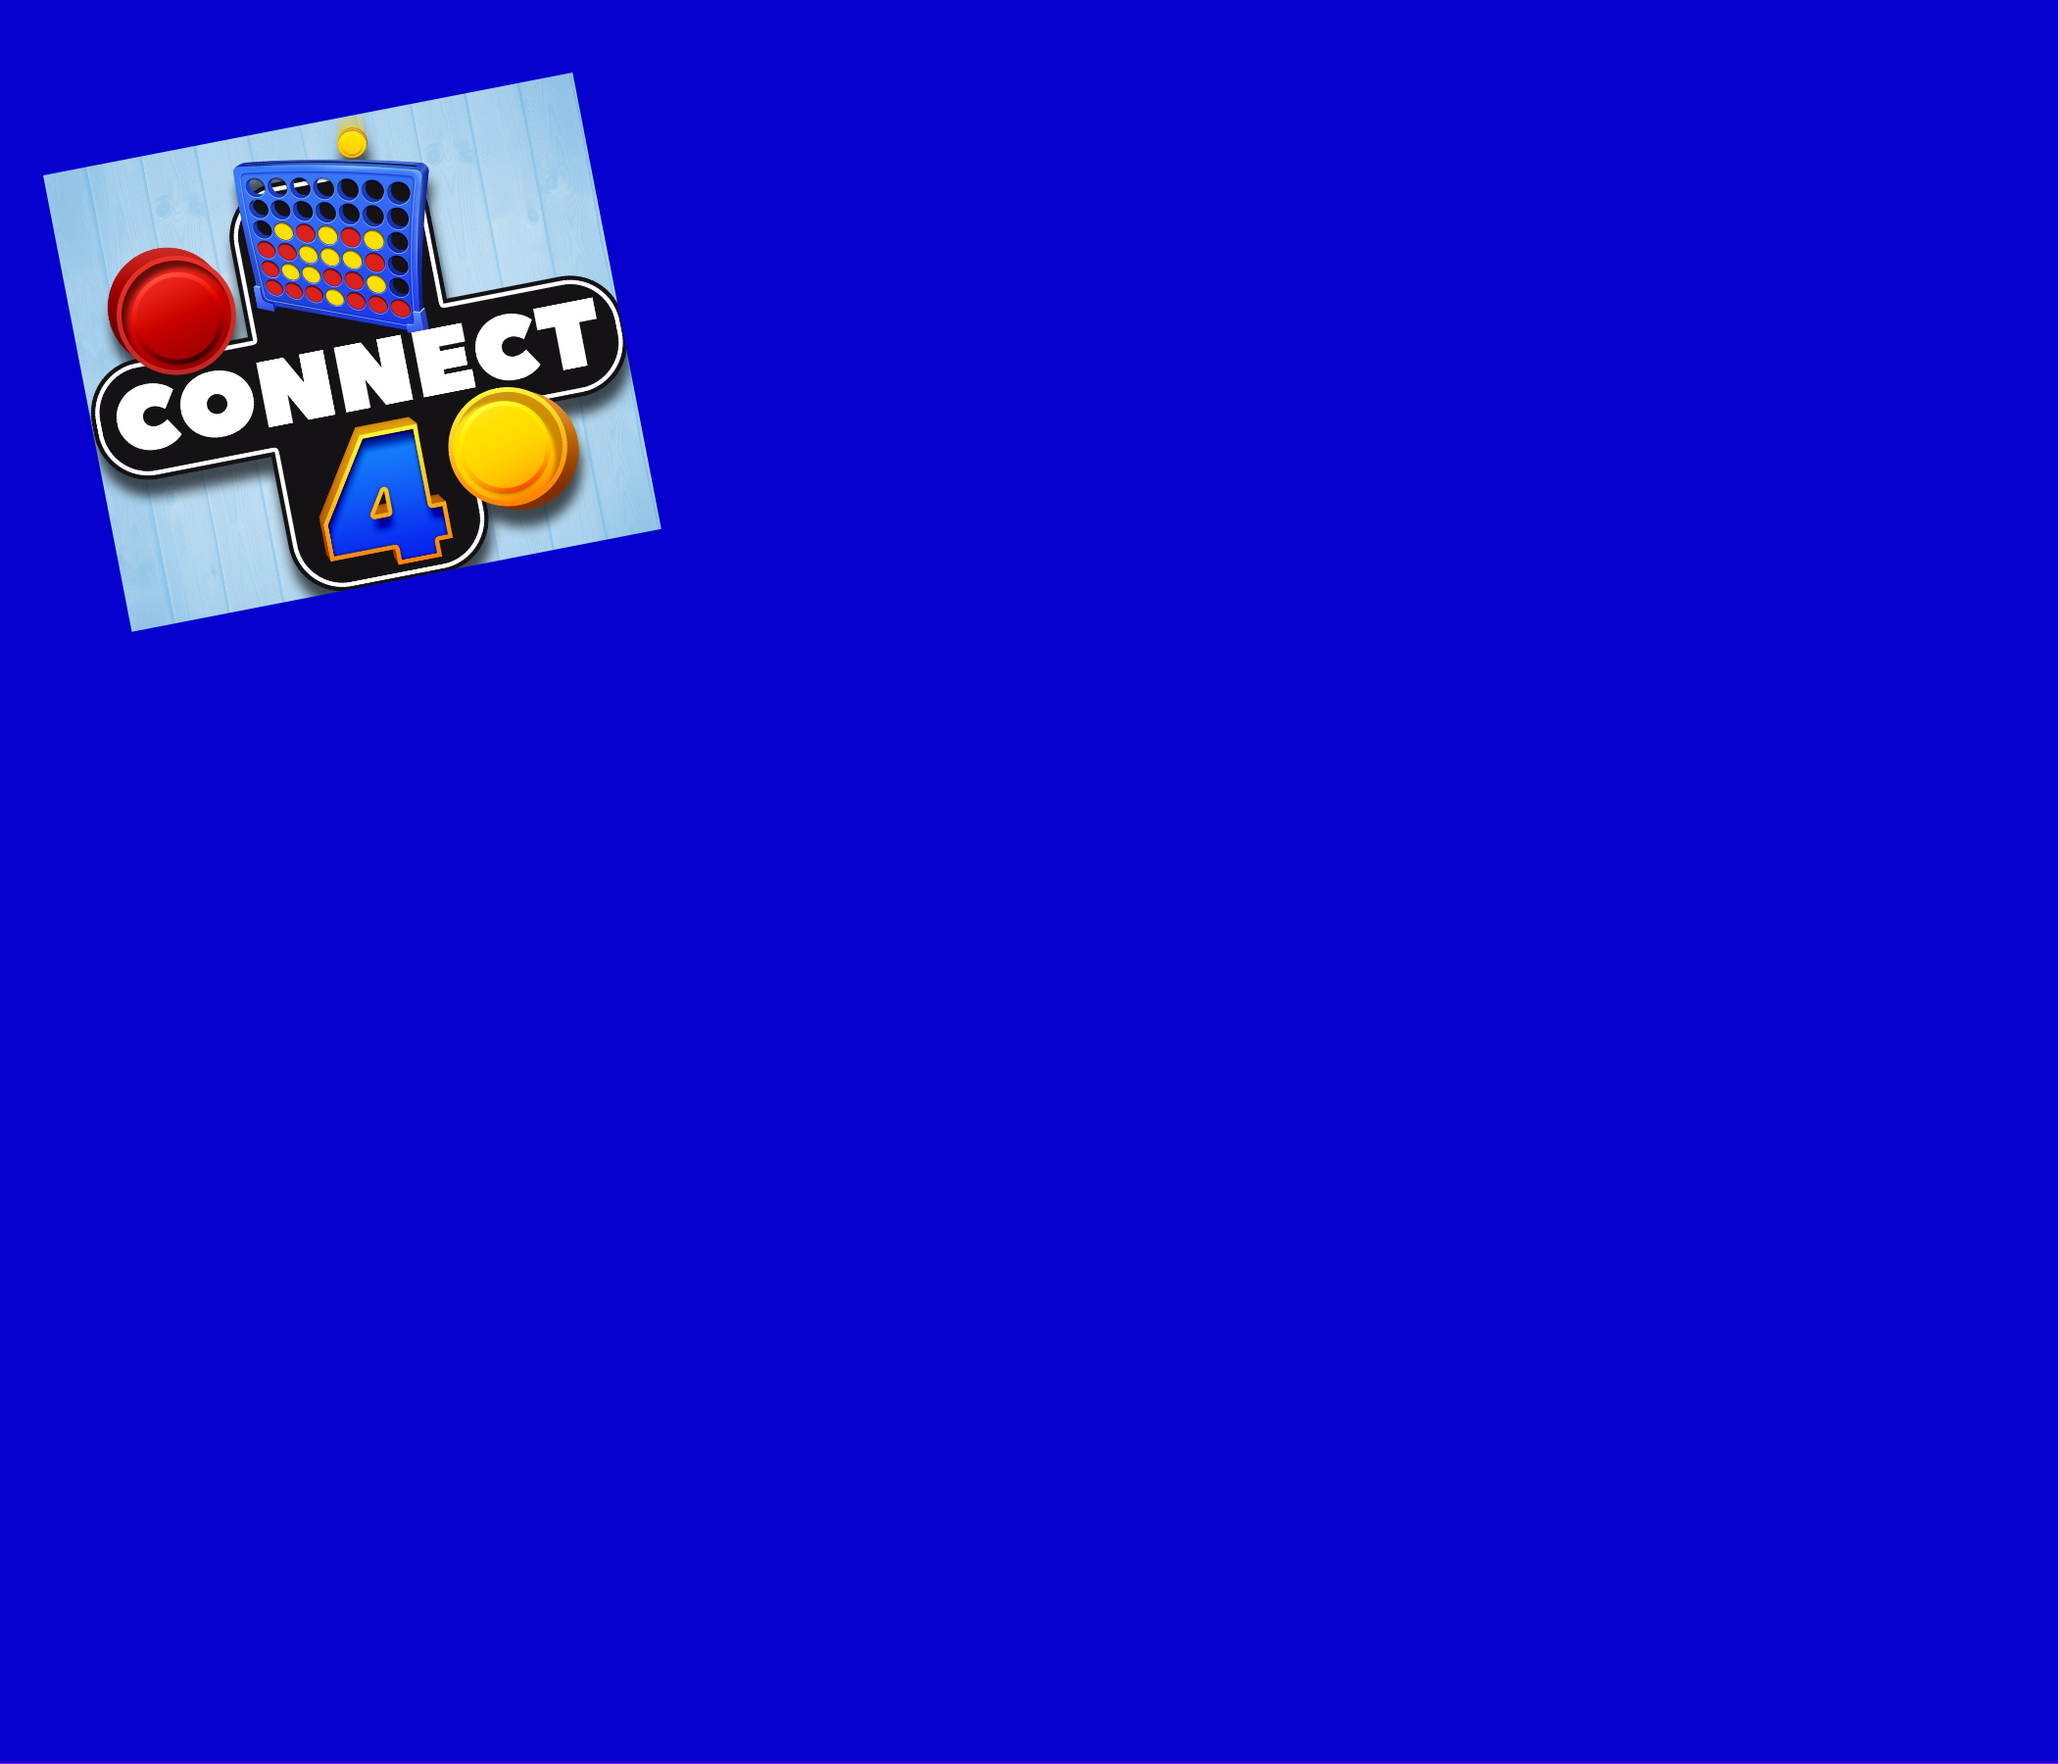
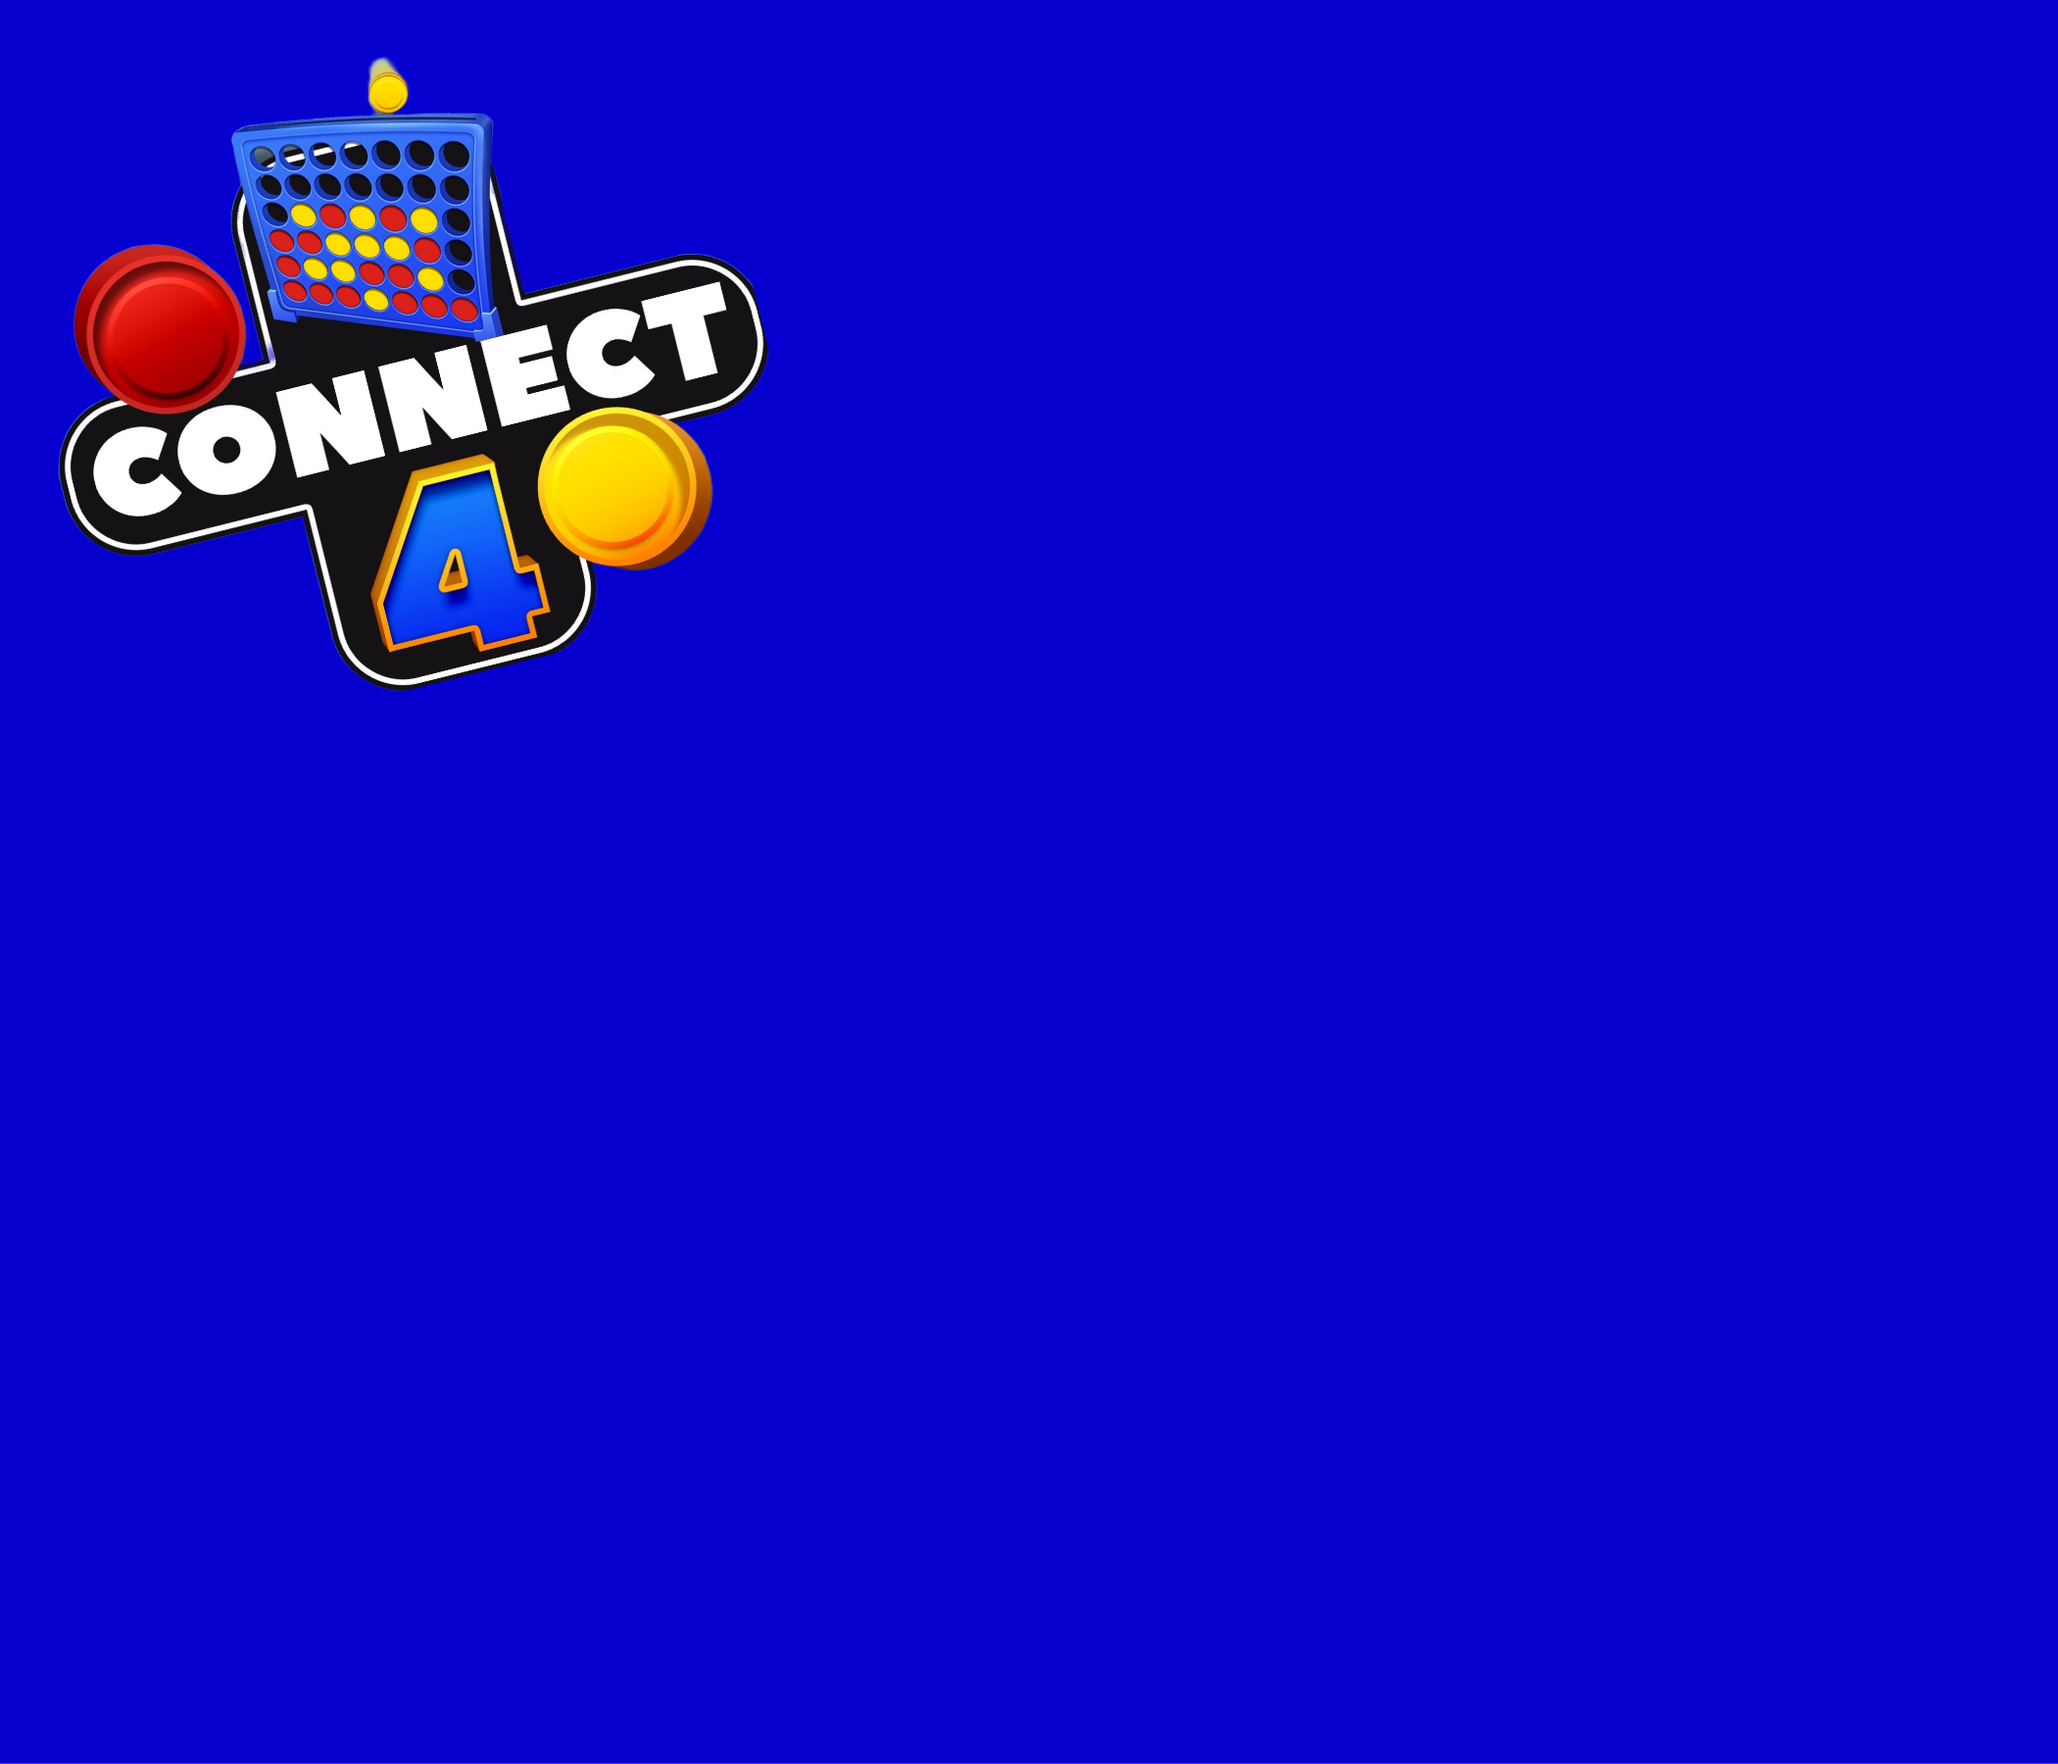
pictures_updated

Changed region(s): [[0.0, 0.0311, 0.3714, 0.4044]]

diff --git a/main.cpp b/main.cpp
@@ -221,9 +221,9 @@ int main() {
     cout << "Hello World ! " << endl;
 
     SetConfigFlags(FLAG_WINDOW_RESIZABLE);
-    InitWindow(700, 600, "Connect 4");
+    InitWindow(800, 700, "Connect 4");
 
-    Texture2D textureLoadPage = LoadTexture("conect4.png");
+    Texture2D textureLoadPage = LoadTexture("coverPage.png");
     Texture2D textureStartPage = LoadTexture("StartPage.png");
 
     //For 3 seconds delay first
